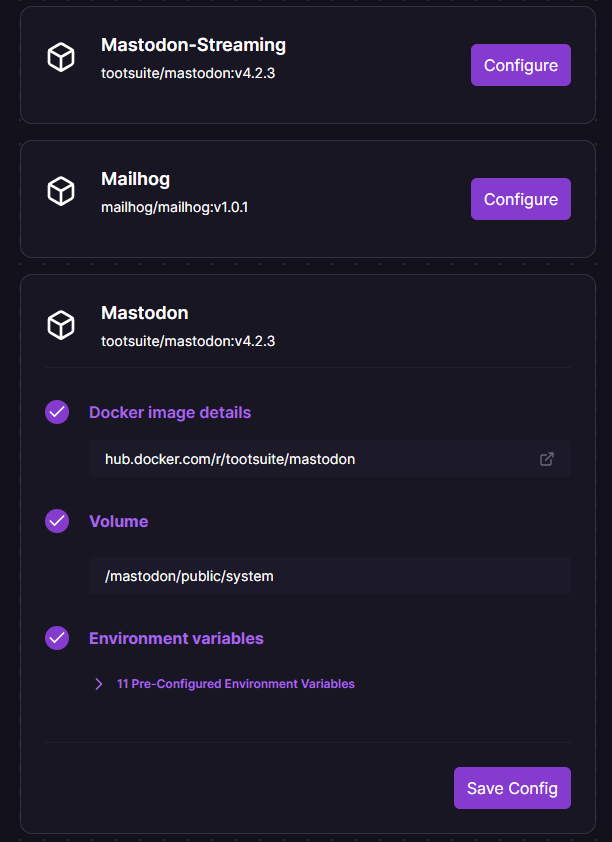
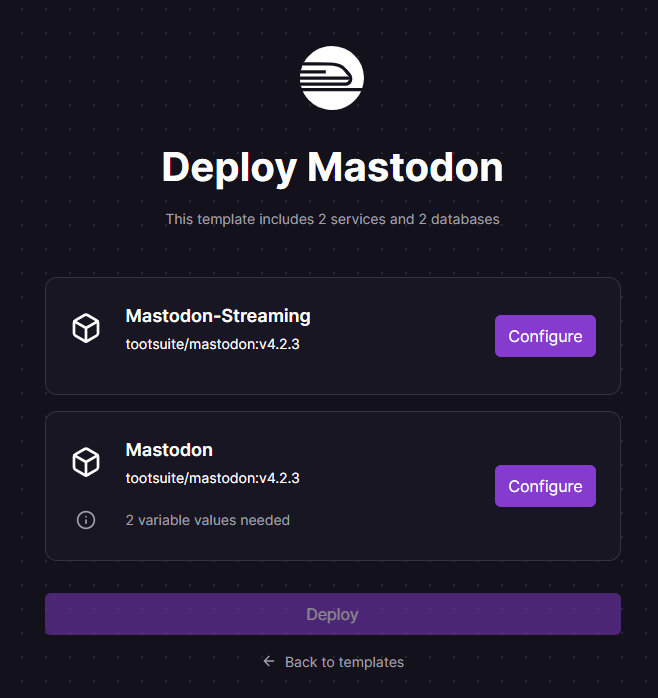
update

diff --git a/README_ja.md b/README_ja.md
@@ -7,7 +7,7 @@
 
 ### 1. Deploy on Railwayをクリック
 
-[![Deploy on Railway](https://railway.app/button.svg)](https://railway.app/template/Vo3Gs5?referralCode=mveF9L)
+[![Deploy on Railway](https://railway.app/button.svg)](https://railway.app/template/Pa4Fcc?referralCode=mveF9L)
 
 ### 2. 各サービスの「Configure」をクリックして環境変数を設定
 ![](images/step2.png)
@@ -17,14 +17,12 @@
 #### Mastodon-Streaming
 「Mastodon」の環境変数と同期されるため、編集不要です。
 
-#### Mailhog
-編集不要です。
-
 #### Mastodon
 | 変数名 | 説明 | デフォルト |
 | --- | --- | --- |
+| OWNER_USERNAME | 起動時に生成する管理者アカウントのユーザー名を指定します。| |
+| OWNER_EMAIL | 起動時に生成する管理者アカウントのメールアドレスを指定します。メールサーバーを設定するまでは使われません。 | |
 | LOCAL_DOMAIN | マストドンで使用するドメインを設定します。独自ドメインか、Railwayで利用できる無料ドメイン`{任意の文字列}.up.railway.app`を指定してください。| 自動生成されたドメイン |
-| SMTP_SERVER<br>SMTP_LOGIN<br>SMTP_PASSWORD<br>SMTP_FROM_ADDRESS | メールサーバーを使用したい場合は設定します。オープンなサーバーの場合は必須です。個人使用の場合は代わりにMailhogというツールを使用出来ます。 | Mailhogサーバー |
 
 これら以外は編集不要です。
 
@@ -44,30 +42,6 @@
 
 ![](images/step4-2.png)
 
-## Mailhogを使ったアカウント作成(シングルユーザーモード)
-まず、Mailhogを開きます。「Deployments」からURLを見つけてください。
-
-![](images/signup1.png)
-
-その後、Mastodonの「アカウント作成」からアカウントを作成します。この時、メールアドレスは「{任意の名前}@{Mailhogのドメイン}」としてください。
-
-![](images/signup2.png)
-
-アカウント登録後、Mailhogを確認するとメールが届いています。このメールからアカウントを認証してください。
-
-![](images/signup3.png)
-
-アカウント認証が出来たら、他の人がアカウントを作成できないようにシングルユーザーモードを有効にします。「Mastodon」->「Variables」->「New Variable」からSINGLE_USER_MODE、trueを入力して「Add」をクリックします。
-
-![](images/signup4.png)
-
-最後に、他人がMailhogを使えないように「Mailhog」->「Settings」->「Networking」->「Public Networking」のドメインを削除してMailhogを非公開にしてください。
-
-ドメインをマウスオーバーするとゴミ箱のマークが出てきます。
-
-![](images/signup5.png)
-
 ## ⚠⚠注意⚠⚠
-- 簡単に動作させるためにMailhogを使用していますが、複数人での利用など、セキュリティを向上させるためにメールサービスを使用することをおすすめします。
 - アップロードした画像はマウントされたボリュームに保存されます。ボリュームの容量は5GBのため、必要に応じてS3などを最初から設定しておくことをおすすめします。
 - Railwayは使用量に応じて課金されるため、フォローを増やしすぎないでください。[設定から使用量を制限することも出来ます。](https://docs.railway.app/reference/usage-limits)

diff --git a/README.md b/README.md
@@ -7,7 +7,7 @@ A template for deploying Mastodon on [Railway](https://railway.app).
 
 ### 1. Click on "Deploy on Railway"
 
-[![Deploy on Railway](https://railway.app/button.svg)](https://railway.app/template/Vo3Gs5?referralCode=mveF9L)
+[![Deploy on Railway](https://railway.app/button.svg)](https://railway.app/template/Pa4Fcc?referralCode=mveF9L)
 
 ### 2. Click "Configure" for each service and set the environment variables
 ![](images/step2.png)
@@ -17,14 +17,12 @@ You must click "Save Config" for all settings. Below are the instructions for co
 #### Mastodon-Streaming
 No need to edit as it syncs with Mastodon's environment variables.
 
-#### Mailhog
-No editing required.
-
 #### Mastodon
 | Variable Name | Description | Default |
 | --- | --- | --- |
-| LOCAL_DOMAIN | Set the domain used for Mastodon. Specify either a custom domain or a free domain available from Railway, like `{any string}.up.railway.app`. | Automatically generated domain |
-| SMTP_SERVER<br>SMTP_LOGIN<br>SMTP_PASSWORD<br>SMTP_FROM_ADDRESS | Set these if you want to use a mail server. Mandatory for open servers. For personal use, you can use a tool named Mailhog instead. | Mailhog server |
+| OWNER_USERNAME | Specify the username for the admin account to be created at startup. | |
+| OWNER_EMAIL | Specify the email address for the admin account to be created at startup. It won't be used until the mail server is set up. | |
+| LOCAL_DOMAIN | Set the domain to be used in Mastodon. Specify either a custom domain or a free domain available from Railway `{any string}.up.railway.app`. | Automatically generated domain |
 
 No other settings need to be edited.
 
@@ -43,27 +41,6 @@ The URL can be found under "Deployments" as shown below.
 That's it!
 
 ![](images/step4-2.png)
-
-## Account Creation with Mailhog (Single User Mode)
-First, open Mailhog. Find the URL under "Deployments."
-
-![](images/signup1.png)
-
-Then, create an account on Mastodon. Use an email address in the format `{any name}@{Mailhog's domain}`.
-
-![](images/signup2.png)
-
-After registering, check Mailhog for an email. Authenticate your account through this email.
-
-![](images/signup3.png)
-
-Once your account is authenticated, enable Single User Mode to prevent others from creating accounts. Go to "Mastodon" -> "Variables" -> "New Variable", enter SINGLE_USER_MODE, true, and click "Add."
-
-![](images/signup4.png)
-
-Finally, to prevent others from using Mailhog, make it private by removing the "Public Networking" domain under "Mailhog" -> "Settings" -> "Networking." Hover over the domain to see the trash can icon.
-
-![](images/signup5.png)
 
 ## ⚠⚠Caution⚠⚠
 - Mailhog is used for simplicity, but it is recommended to use a mail service for increased security, especially when used by multiple people.
